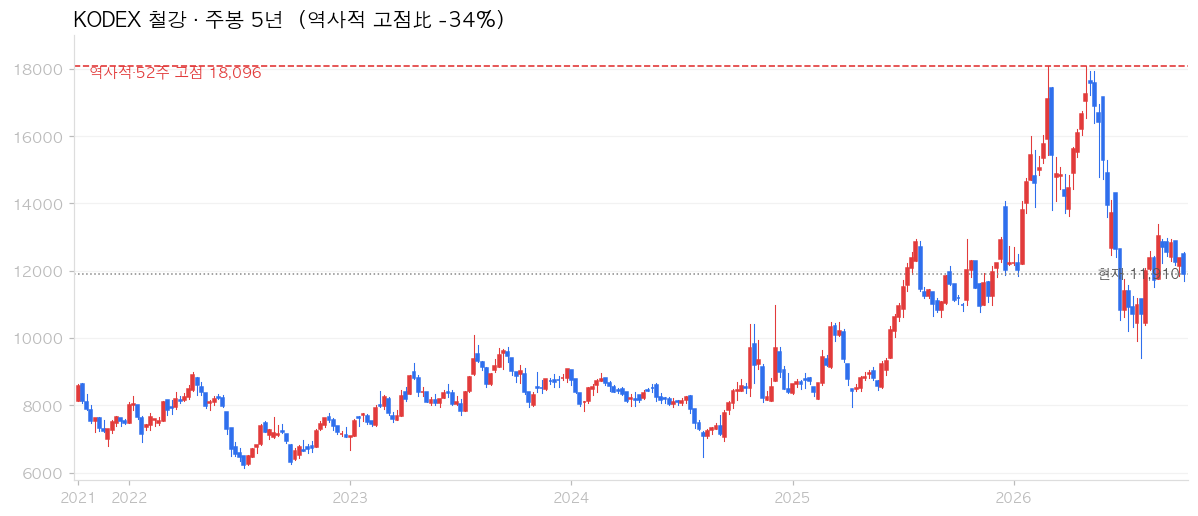
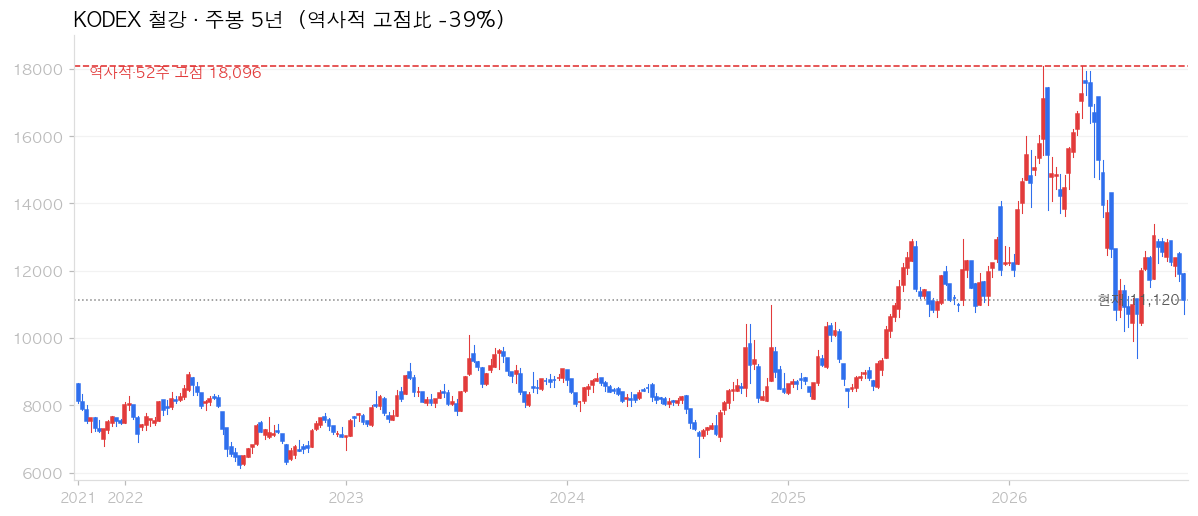
산업 사이클 지도 2026-10-18

diff --git a/_posts/2026-10-18-etf-cycle.md b/_posts/2026-10-18-etf-cycle.md
@@ -1,0 +1,111 @@
+---
+title: "산업 사이클 지도 — 지금 어느 업종이 저점권일까 (2026.10 셋째주)"
+categories: [money]
+tags: [주식투자, ETF, 산업사이클]
+permalink: /money/2026-10-18-etf-cycle/
+excerpt: "산업 ETF 주봉 5년 + 역사적/52주 고점 · 저점권 게임, 미디어·엔터, 2차전지, 바이오·헬스, 증권, 방산, IT·인터넷, 조선, 자동차, 건설, 에너지화학"
+header:
+  og_image: /assets/images/etf-cycle/300950.png
+---
+
+업종은 저마다의 사이클로 고점·저점을 반복합니다. 산업 ETF 주봉(5년)에 **역사적 고점·52주 고점 선**을 그어, 지금 각 업종이 고점 대비 어디쯤인지 장기 관점으로 기록합니다. 낙폭이 깊은 **저점권**부터 정렬했습니다. (매수 추천이 아니라 위치 기록)
+
+#### 게임 · 저점권  (KODEX 게임산업 · 300950)
+
+<img src="/assets/images/etf-cycle/300950.png" alt="게임 주봉" style="width:100%;max-width:760px">
+
+고점 대비 -74%. 사이클 저점권 — 장기 관찰 대상. [📈 차트 크게 보기(줌)](https://finance.naver.com/item/fchart.naver?code=300950)
+
+#### 미디어·엔터 · 저점권  (KODEX 미디어&엔터 · 266360)
+
+<img src="/assets/images/etf-cycle/266360.png" alt="미디어·엔터 주봉" style="width:100%;max-width:760px">
+
+고점 대비 -67%. 사이클 저점권 — 장기 관찰 대상. [📈 차트 크게 보기(줌)](https://finance.naver.com/item/fchart.naver?code=266360)
+
+#### 2차전지 · 저점권  (KODEX 2차전지산업 · 305720)
+
+<img src="/assets/images/etf-cycle/305720.png" alt="2차전지 주봉" style="width:100%;max-width:760px">
+
+고점 대비 -64%. 사이클 저점권 — 장기 관찰 대상. [📈 차트 크게 보기(줌)](https://finance.naver.com/item/fchart.naver?code=305720)
+
+#### 바이오·헬스 · 저점권  (KODEX 바이오 · 244580)
+
+<img src="/assets/images/etf-cycle/244580.png" alt="바이오·헬스 주봉" style="width:100%;max-width:760px">
+
+고점 대비 -57%. 사이클 저점권 — 장기 관찰 대상. [📈 차트 크게 보기(줌)](https://finance.naver.com/item/fchart.naver?code=244580)
+
+#### 증권 · 저점권  (KODEX 증권 · 102970)
+
+<img src="/assets/images/etf-cycle/102970.png" alt="증권 주봉" style="width:100%;max-width:760px">
+
+고점 대비 -55%. 사이클 저점권 — 장기 관찰 대상. [📈 차트 크게 보기(줌)](https://finance.naver.com/item/fchart.naver?code=102970)
+
+#### 방산 · 저점권  (PLUS K방산 · 449450)
+
+<img src="/assets/images/etf-cycle/449450.png" alt="방산 주봉" style="width:100%;max-width:760px">
+
+고점 대비 -51%. 사이클 저점권 — 장기 관찰 대상. [📈 차트 크게 보기(줌)](https://finance.naver.com/item/fchart.naver?code=449450)
+
+#### IT·인터넷 · 저점권  (TIGER 200 IT · 139260)
+
+<img src="/assets/images/etf-cycle/139260.png" alt="IT·인터넷 주봉" style="width:100%;max-width:760px">
+
+고점 대비 -48%. 사이클 저점권 — 장기 관찰 대상. [📈 차트 크게 보기(줌)](https://finance.naver.com/item/fchart.naver?code=139260)
+
+#### 조선 · 저점권  (SOL 조선TOP3플러스 · 466920)
+
+<img src="/assets/images/etf-cycle/466920.png" alt="조선 주봉" style="width:100%;max-width:760px">
+
+고점 대비 -48%. 사이클 저점권 — 장기 관찰 대상. [📈 차트 크게 보기(줌)](https://finance.naver.com/item/fchart.naver?code=466920)
+
+#### 자동차 · 저점권  (KODEX 자동차 · 091180)
+
+<img src="/assets/images/etf-cycle/091180.png" alt="자동차 주봉" style="width:100%;max-width:760px">
+
+고점 대비 -43%. 사이클 저점권 — 장기 관찰 대상. [📈 차트 크게 보기(줌)](https://finance.naver.com/item/fchart.naver?code=091180)
+
+#### 건설 · 저점권  (KODEX 건설 · 117700)
+
+<img src="/assets/images/etf-cycle/117700.png" alt="건설 주봉" style="width:100%;max-width:760px">
+
+고점 대비 -43%. 사이클 저점권 — 장기 관찰 대상. [📈 차트 크게 보기(줌)](https://finance.naver.com/item/fchart.naver?code=117700)
+
+#### 에너지화학 · 저점권  (KODEX 에너지화학 · 117460)
+
+<img src="/assets/images/etf-cycle/117460.png" alt="에너지화학 주봉" style="width:100%;max-width:760px">
+
+고점 대비 -40%. 사이클 저점권 — 장기 관찰 대상. [📈 차트 크게 보기(줌)](https://finance.naver.com/item/fchart.naver?code=117460)
+
+#### 철강 · 중립  (KODEX 철강 · 117680)
+
+<img src="/assets/images/etf-cycle/117680.png" alt="철강 주봉" style="width:100%;max-width:760px">
+
+고점 대비 -39%. 저점권도 고점권도 아닌 중립. [📈 차트 크게 보기(줌)](https://finance.naver.com/item/fchart.naver?code=117680)
+
+#### 반도체 · 중립  (KODEX 반도체 · 091160)
+
+<img src="/assets/images/etf-cycle/091160.png" alt="반도체 주봉" style="width:100%;max-width:760px">
+
+고점 대비 -38%. 저점권도 고점권도 아닌 중립. [📈 차트 크게 보기(줌)](https://finance.naver.com/item/fchart.naver?code=091160)
+
+#### 보험 · 중립  (KODEX 보험 · 140700)
+
+<img src="/assets/images/etf-cycle/140700.png" alt="보험 주봉" style="width:100%;max-width:760px">
+
+고점 대비 -17%. 저점권도 고점권도 아닌 중립. [📈 차트 크게 보기(줌)](https://finance.naver.com/item/fchart.naver?code=140700)
+
+#### 운송 · 중립  (KODEX 운송 · 140710)
+
+<img src="/assets/images/etf-cycle/140710.png" alt="운송 주봉" style="width:100%;max-width:760px">
+
+고점 대비 -15%. 저점권도 고점권도 아닌 중립. [📈 차트 크게 보기(줌)](https://finance.naver.com/item/fchart.naver?code=140710)
+
+#### 은행 · 중립  (KODEX 은행 · 091170)
+
+<img src="/assets/images/etf-cycle/091170.png" alt="은행 주봉" style="width:100%;max-width:760px">
+
+고점 대비 -14%. 저점권도 고점권도 아닌 중립. [📈 차트 크게 보기(줌)](https://finance.naver.com/item/fchart.naver?code=091170)
+
+이번 주 기준 저점권은 **게임, 미디어·엔터, 2차전지, 바이오·헬스, 증권, 방산, IT·인터넷, 조선, 자동차, 건설, 에너지화학**. 저는 저점권 업종을 장기 후보로만 적어두고 시간을 두고 봅니다.
+
+> 개인적인 장기 관점 기록이며 특정 종목·ETF의 매수/매도를 권유하지 않습니다. 사이클 위치는 참고용입니다.
